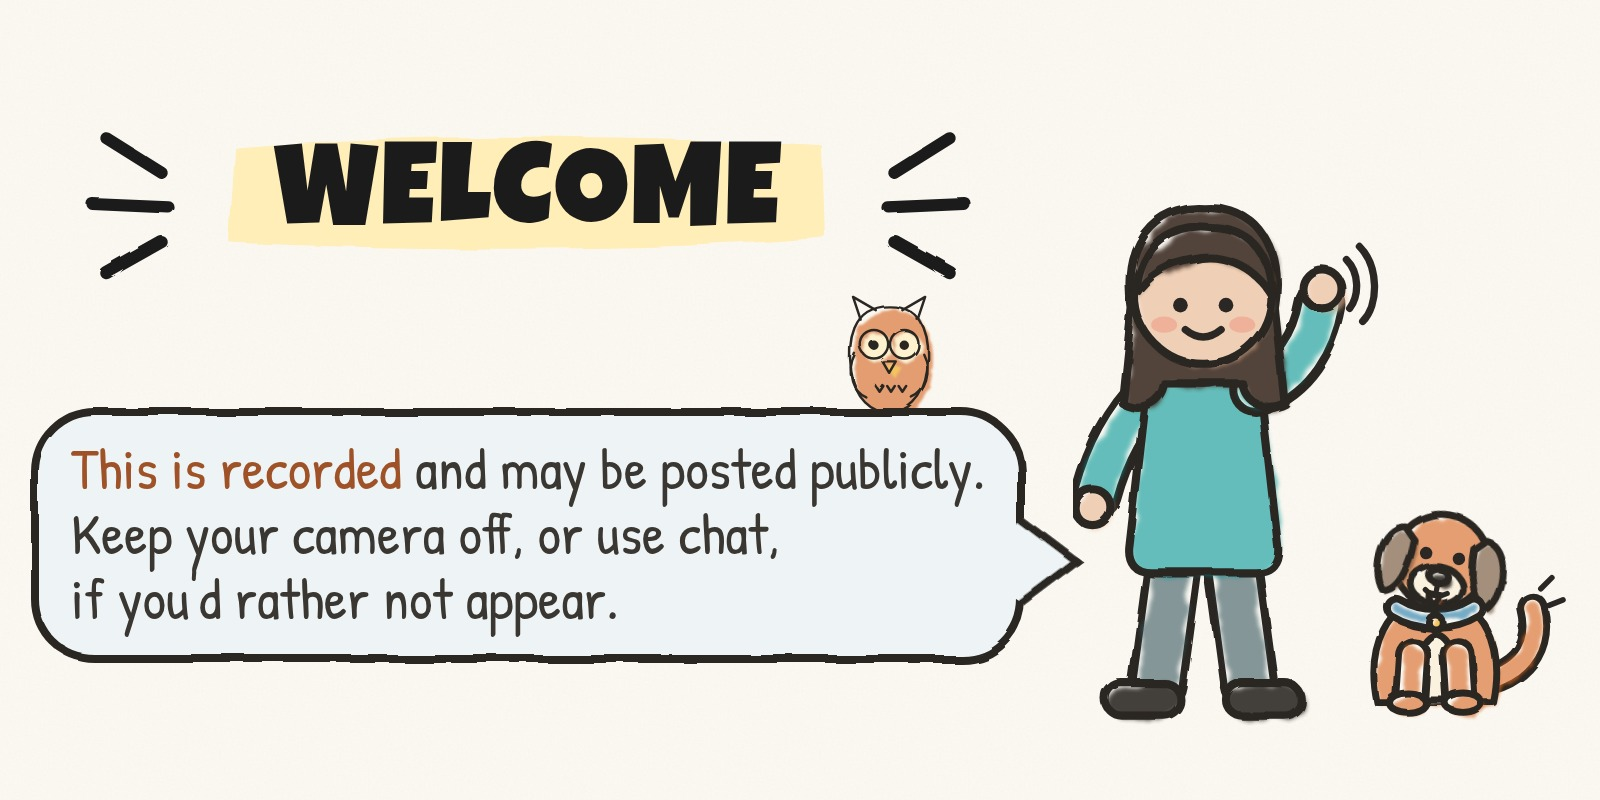
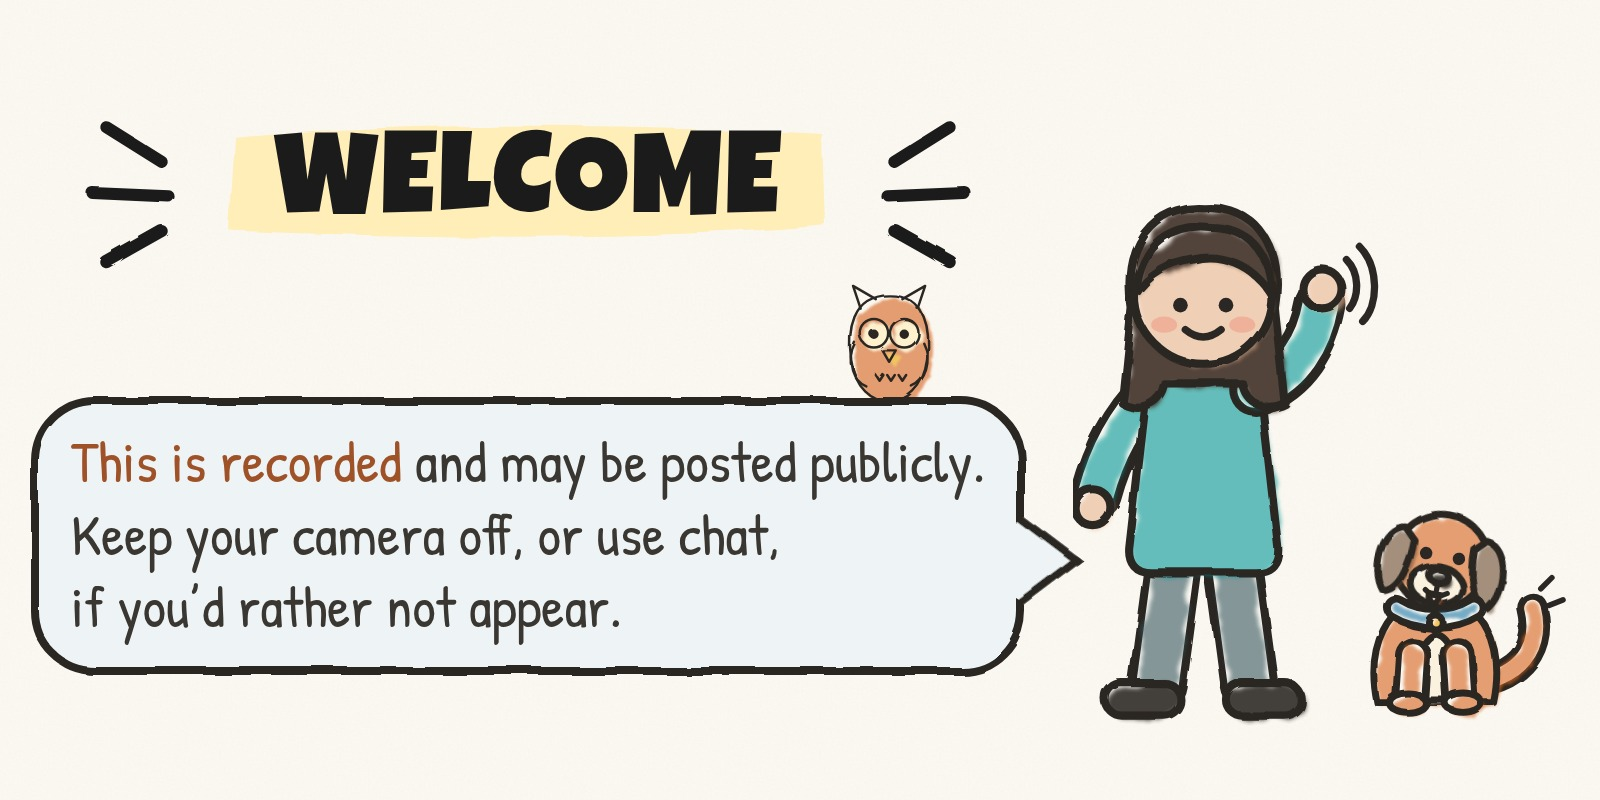
Zoom welcome: keep the apostrophe clear of the y above
The straight apostrophe in "you'd" touched the descender of "your" on
the line above. Use a curly apostrophe, which is shorter in Patrick
Hand, and open the line spacing a little.

diff --git a/formats/zoom-waiting-room/welcome.html b/formats/zoom-waiting-room/welcome.html
@@ -22,7 +22,7 @@
   .sk-title { font-size: 58px; line-height: 1.1; }
   .say { position: relative; }
   .sk-bubble {
-    margin: 0; padding: 14px 20px 16px; font-size: 29px; line-height: 1.12; text-align: left;
+    margin: 0; padding: 14px 20px 16px; font-size: 29px; line-height: 1.25; text-align: left;
   }
   .sk-bubble .sk-em { font-weight: 400; }
   /* tail on the right side, pointing at the person waving */
@@ -39,7 +39,7 @@
     <h1 class="sk-title"><span class="sk-burst"><span class="sk-hl">Welcome</span></span></h1>
     <div class="say">
       <img class="owl" src="../../kit/icons/owl.svg" alt="">
-      <div class="sk-bubble sk-tail-side"><span class="sk-em">This is recorded</span> and may be posted publicly.<br>Keep your camera off, or use chat,<br>if you'd rather not appear.</div>
+      <div class="sk-bubble sk-tail-side"><span class="sk-em">This is recorded</span> and may be posted publicly.<br>Keep your camera off, or use chat,<br>if you’d rather not appear.</div>
     </div>
   </div>
   <img class="waver" src="../../kit/characters/waver.svg" alt="">
